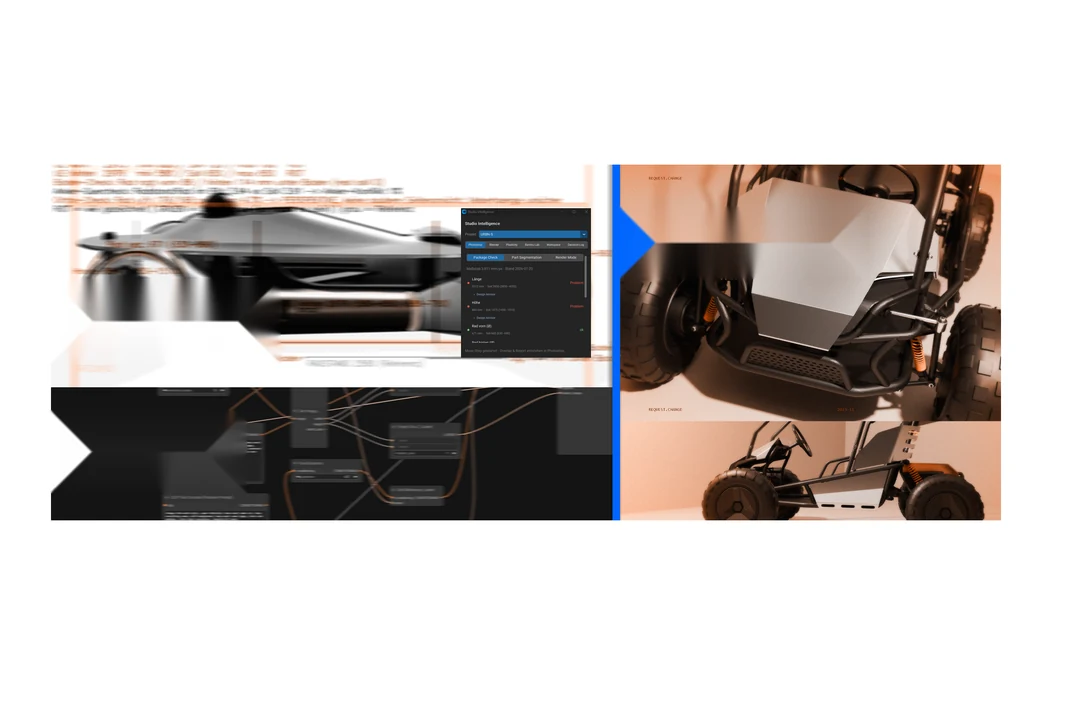
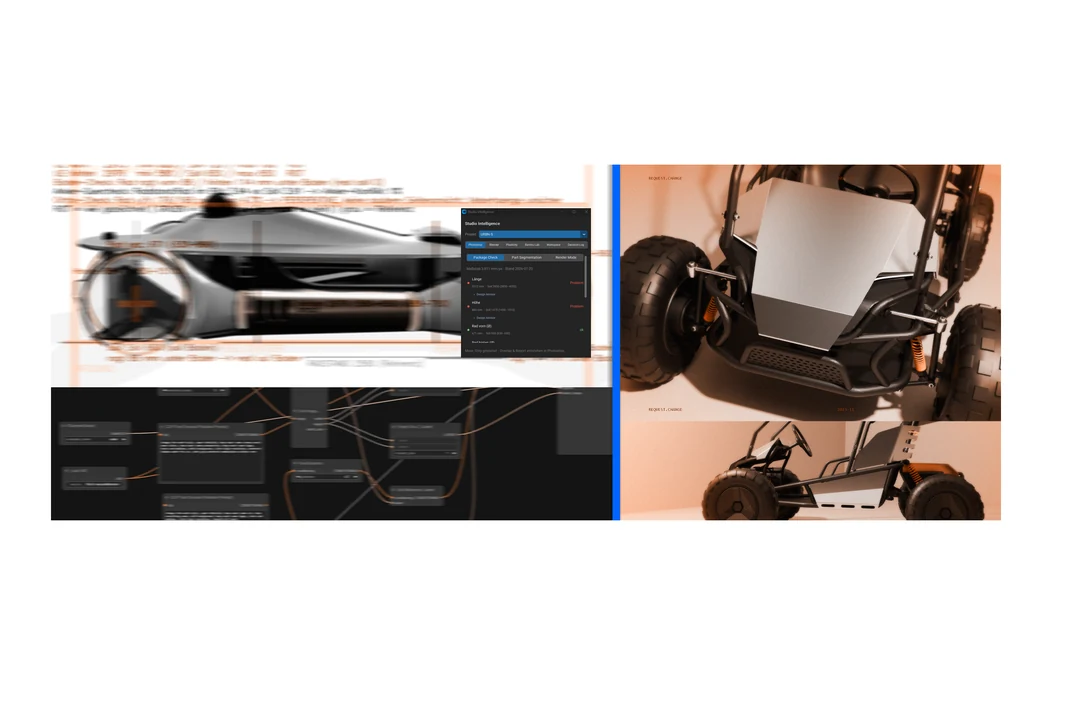
Current work: clean bg from 17_2026(2), mobile flush + chip stacking fix

diff --git a/index.html b/index.html
@@ -115,7 +115,7 @@
   .now-sec{padding:4.5cqw 0 7cqw 0}
   .nowbox{position:relative;container-type:inline-size}
   .now-title{position:relative;z-index:5;margin:0 0 0 2.5cqw;font-weight:700;font-size:2.742cqw;letter-spacing:-.01em}
-  .nowcv{position:relative;width:107.77cqw;margin:-15.1cqw 0 -18.1cqw -2.49cqw}
+  .nowcv{position:relative;width:107.99cqw;margin:-15.35cqw 0 -18.4cqw -2.60cqw}
   .nowcv>img{width:100%;display:block}
   .now-chip{position:absolute;z-index:4;font-size:1.098cqw;line-height:1.32;padding:.55em .75em .65em;box-sizing:border-box}
   .now-chip b{display:block;font-weight:700;margin-bottom:.55em}
@@ -128,8 +128,9 @@
   .fx.fx-title{transform:translateX(-34px)}
   @media (max-width:719px){
     .now-sec{padding:4.5cqw 0 7cqw 0}
-    .nowcv{width:100%;margin:-14.05cqw 0 -16.7cqw 0}
-    .now-chip{position:static;width:auto;margin:8px 0 0;font-size:13px;padding:10px 12px}
+    .nowcv{width:auto;margin:0}
+    .nowcv>img{width:107.99cqw;max-width:none;margin:-15.35cqw 0 -18.6cqw -2.60cqw}
+    .now-chip{position:relative;left:auto;top:auto;width:auto;margin:8px 0 0;font-size:13px;padding:10px 12px}
     .now-title{font-size:4.6cqw;margin-bottom:0}
     .fx.fx-pop-l,.fx.fx-pop-r{transform:translateY(16px)}
   }